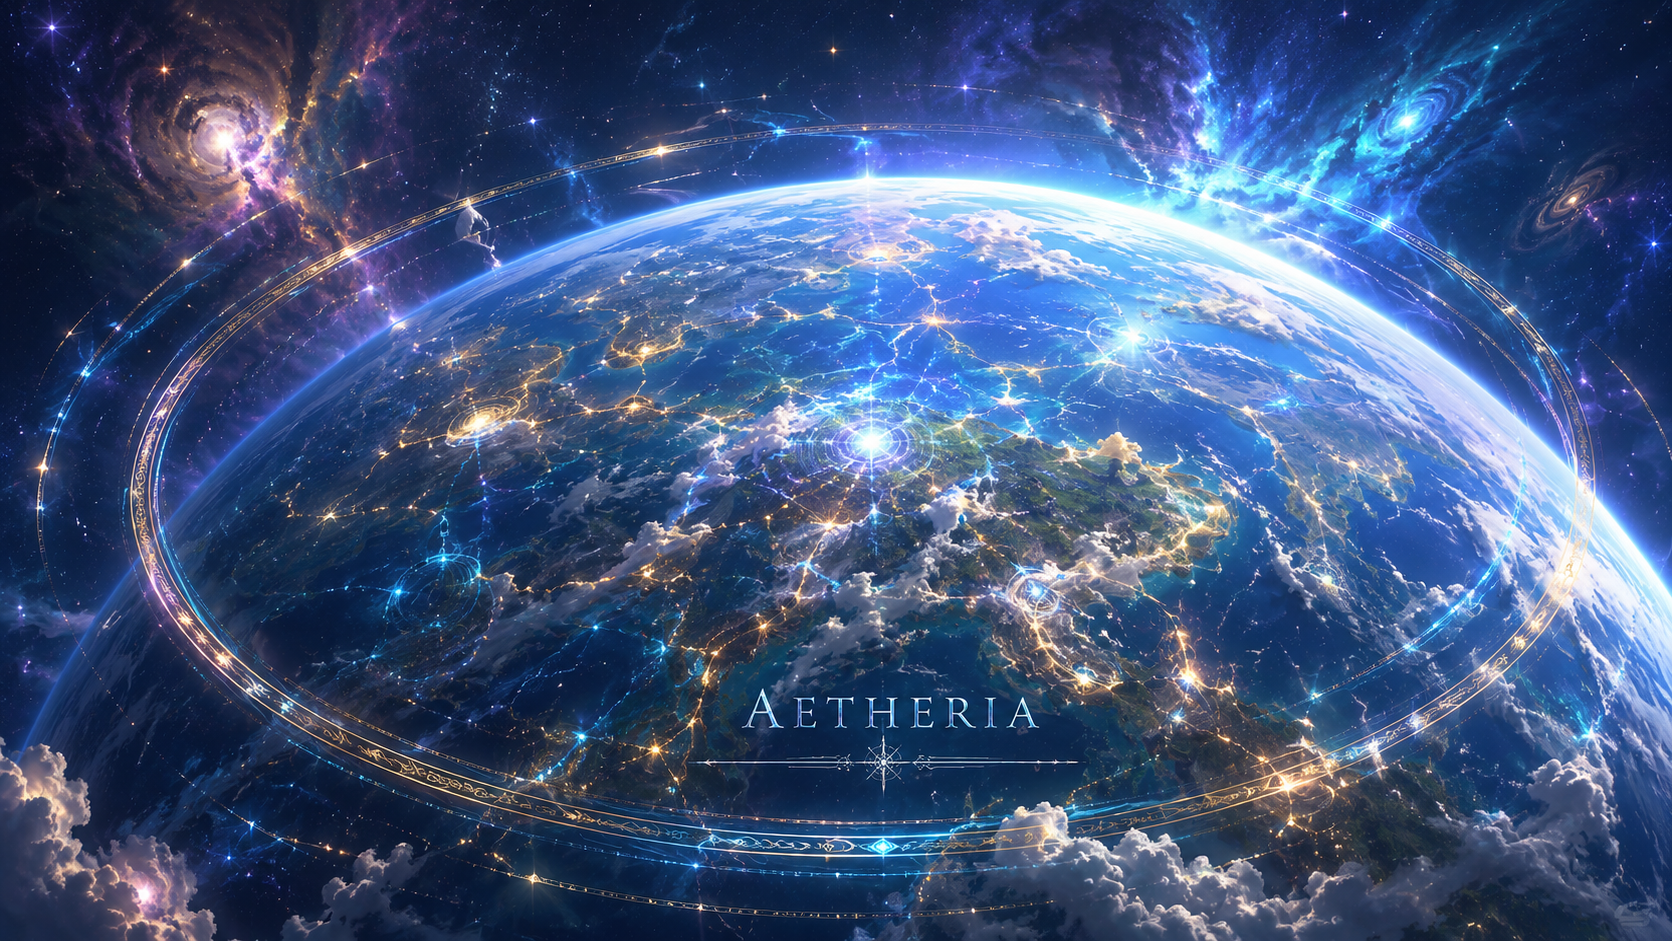
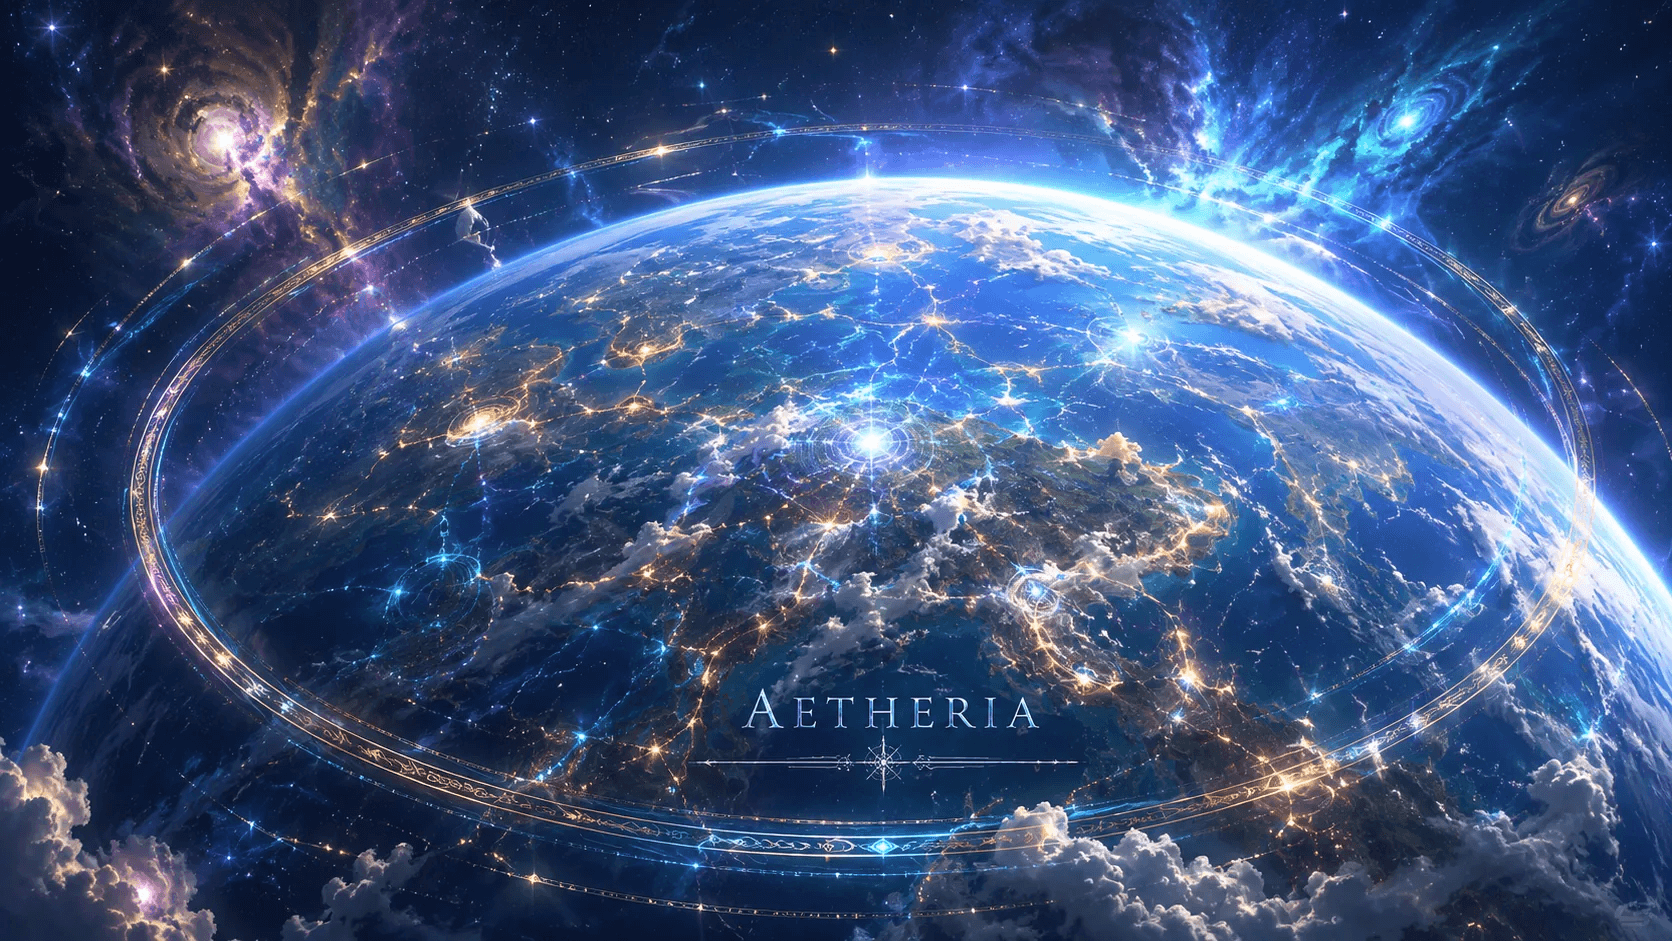
perf(assets): optimize thumbnail to WebP (281KB) and compress PNG fallback

diff --git a/index.html b/index.html
@@ -14,13 +14,16 @@
     <meta property="og:type" content="website" />
     <meta property="og:title" content="Project Aetheria" />
     <meta property="og:description" content="A story whispered through rain and starlight—where the hum of forgotten machinery carries echoes of a promise yet kept." />
-    <meta property="og:image" content="/thumbnail.png" />
+    <meta property="og:image" content="/thumbnail.webp" />
+    <meta property="og:image:type" content="image/webp" />
+    <meta property="og:image:width" content="1672" />
+    <meta property="og:image:height" content="941" />
 
     <!-- Twitter -->
     <meta name="twitter:card" content="summary_large_image" />
     <meta name="twitter:title" content="Project Aetheria" />
     <meta name="twitter:description" content="A story whispered through rain and starlight—where the hum of forgotten machinery carries echoes of a promise yet kept." />
-    <meta name="twitter:image" content="/thumbnail.png" />
+    <meta name="twitter:image" content="/thumbnail.webp" />
     <link rel="preconnect" href="https://fonts.googleapis.com" />
     <link rel="preconnect" href="https://fonts.gstatic.com" crossorigin />
     <link href="https://fonts.googleapis.com/css2?family=Playfair+Display:wght@400;700&family=Plus+Jakarta+Sans:wght@300;400;500;600;700&display=swap" rel="stylesheet" />

diff --git a/README.md b/README.md
@@ -14,7 +14,7 @@
 <br />
 
 <a href="https://aeteria.biz.id/">
-  <img src="public/thumbnail.png" alt="Project Aetheria Preview" width="100%" style="border-radius: 12px; box-shadow: 0 8px 30px rgba(0,0,0,0.4);" />
+  <img src="public/thumbnail.webp" alt="Project Aetheria Preview" width="100%" style="border-radius: 12px; box-shadow: 0 8px 30px rgba(0,0,0,0.4);" />
 </a>
 
 <br />
